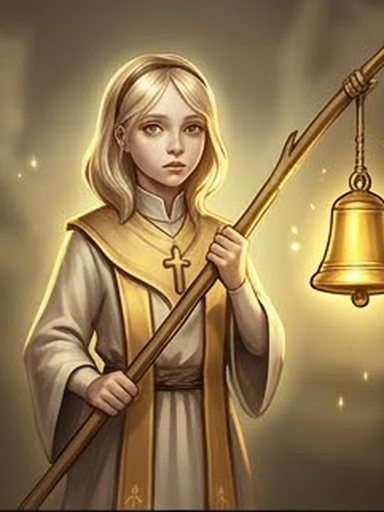
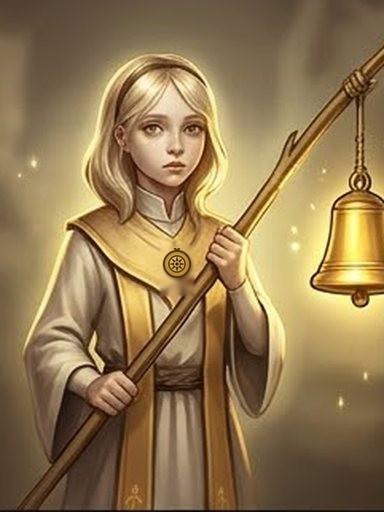
Portraits: Sigil medallions replace the crosses on Agathe, Isla and Wren
Art review M8: the game's own symbol instead of a real-world religious one. The pendant is
inpainted out and a gold Sigil medallion drawn in its place (Tools~/portraits/sigil_pendant.py),
so the rest of each portrait is untouched.

Claude-Session: https://claude.ai/code/session_01MzwG5WXmTevVo9pQJnfpqh

Changed region(s): [[0.4062, 0.4688, 0.5312, 0.5938]]

diff --git a/unity/Tools~/portraits/sigil_pendant.py b/unity/Tools~/portraits/sigil_pendant.py
@@ -1,0 +1,54 @@
+"""Replace the cross pendant on three portraits with a round Sigil medallion.
+usage: fix.py SRC_DIR OUT_DIR"""
+import sys, math, os
+import numpy as np, cv2
+from PIL import Image, ImageDraw, ImageFilter
+src, out = sys.argv[1], sys.argv[2]; os.makedirs(out, exist_ok=True)
+# name: cross bbox (x0,y0,x1,y1) in 384x512 portrait, medallion centre, radius
+SPOTS = {"agathe": ((210, 304, 244, 349), (227, 319), 13),
+         "isla":   ((159, 244, 194, 296), (177, 264), 14),
+         "wren":   ((196, 296, 230, 334), (213, 307), 12)}
+def medallion(r, base, S=8):
+    R = r * S; W = 2 * R + 4 * S
+    im = Image.new("RGBA", (W, W), (0, 0, 0, 0)); d = ImageDraw.Draw(im); c = W / 2
+    k = float(np.clip(sum(base) / 640.0, 0.62, 1.0))       # the portrait's local light level
+    g = lambda c: tuple(int(v * k) for v in c)
+    hi, mid, dk = g((252, 214, 120)), g((206, 152, 58)), g((92, 58, 18))
+    d.ellipse([c - R, c - R, c + R, c + R], fill=dk + (255,))                         # rim
+    for i in range(24):                                                               # shaded face
+        t = i / 23; rr = R * 0.86 * (1 - t * 0.9)
+        col = tuple(int(mid[k] * (1 - t) + hi[k] * t) for k in range(3))
+        ox, oy = -R * 0.18 * t, -R * 0.22 * t
+        d.ellipse([c + ox - rr, c + oy - rr, c + ox + rr, c + oy + rr], fill=col + (255,))
+    # engraved sigil: ring + eight-point star + centre dot
+    lw = max(1, int(R * 0.09))
+    d.ellipse([c - R * 0.62, c - R * 0.62, c + R * 0.62, c + R * 0.62], outline=dk + (255,), width=lw)
+    pts = []
+    for k in range(16):
+        a = -math.pi / 2 + k * math.pi / 8; rr = R * (0.56 if k % 2 == 0 else 0.24)
+        pts.append((c + rr * math.cos(a), c + rr * math.sin(a)))
+    d.polygon(pts, outline=dk + (255,), width=lw)
+    d.ellipse([c - R * 0.12, c - R * 0.12, c + R * 0.12, c + R * 0.12], fill=dk + (255,))
+    # bail loop on top
+    d.ellipse([c - R * 0.22, c - R - R * 0.38, c + R * 0.22, c - R + R * 0.06], outline=dk + (255,), width=int(lw * 1.6))
+    return im.resize((W // S, W // S), Image.LANCZOS)
+for name, (bb, (cx, cy), r) in SPOTS.items():
+    img = Image.open(os.path.join(src, f"portrait_{name}.jpg")).convert("RGB")
+    a = np.array(img)
+    region = a[bb[1]:bb[3], bb[0]:bb[2]].reshape(-1, 3).astype(float)
+    # the cross is the brightest/most saturated gold in its box: use the top 25% for the medallion base colour
+    lum = region.sum(1); base = region[lum >= np.percentile(lum, 75)].mean(0)
+    mask = np.zeros(a.shape[:2], np.uint8); cv2.rectangle(mask, bb[:2], (bb[2], bb[3]), 255, -1)
+    bgr = cv2.inpaint(cv2.cvtColor(a, cv2.COLOR_RGB2BGR), mask, 6, cv2.INPAINT_TELEA)
+    img = Image.fromarray(cv2.cvtColor(bgr, cv2.COLOR_BGR2RGB))
+    # re-blend the inpainted box softly so its edge doesn't show
+    orig = Image.fromarray(a); soft = Image.fromarray(mask).filter(ImageFilter.GaussianBlur(2))
+    img = Image.composite(img, orig, soft)
+    m = medallion(r, base)
+    sh = Image.new("RGBA", m.size, (0, 0, 0, 0)); sh.putalpha(m.split()[3].point(lambda v: int(v * 0.45)))
+    sh = sh.filter(ImageFilter.GaussianBlur(1.5))
+    img = img.convert("RGBA")
+    img.alpha_composite(sh, (cx - m.width // 2 + 1, cy - m.height // 2 + 2))
+    img.alpha_composite(m, (cx - m.width // 2, cy - m.height // 2))
+    img.convert("RGB").save(os.path.join(out, f"portrait_{name}.jpg"), quality=90)
+    print(name, "base", base.round())
